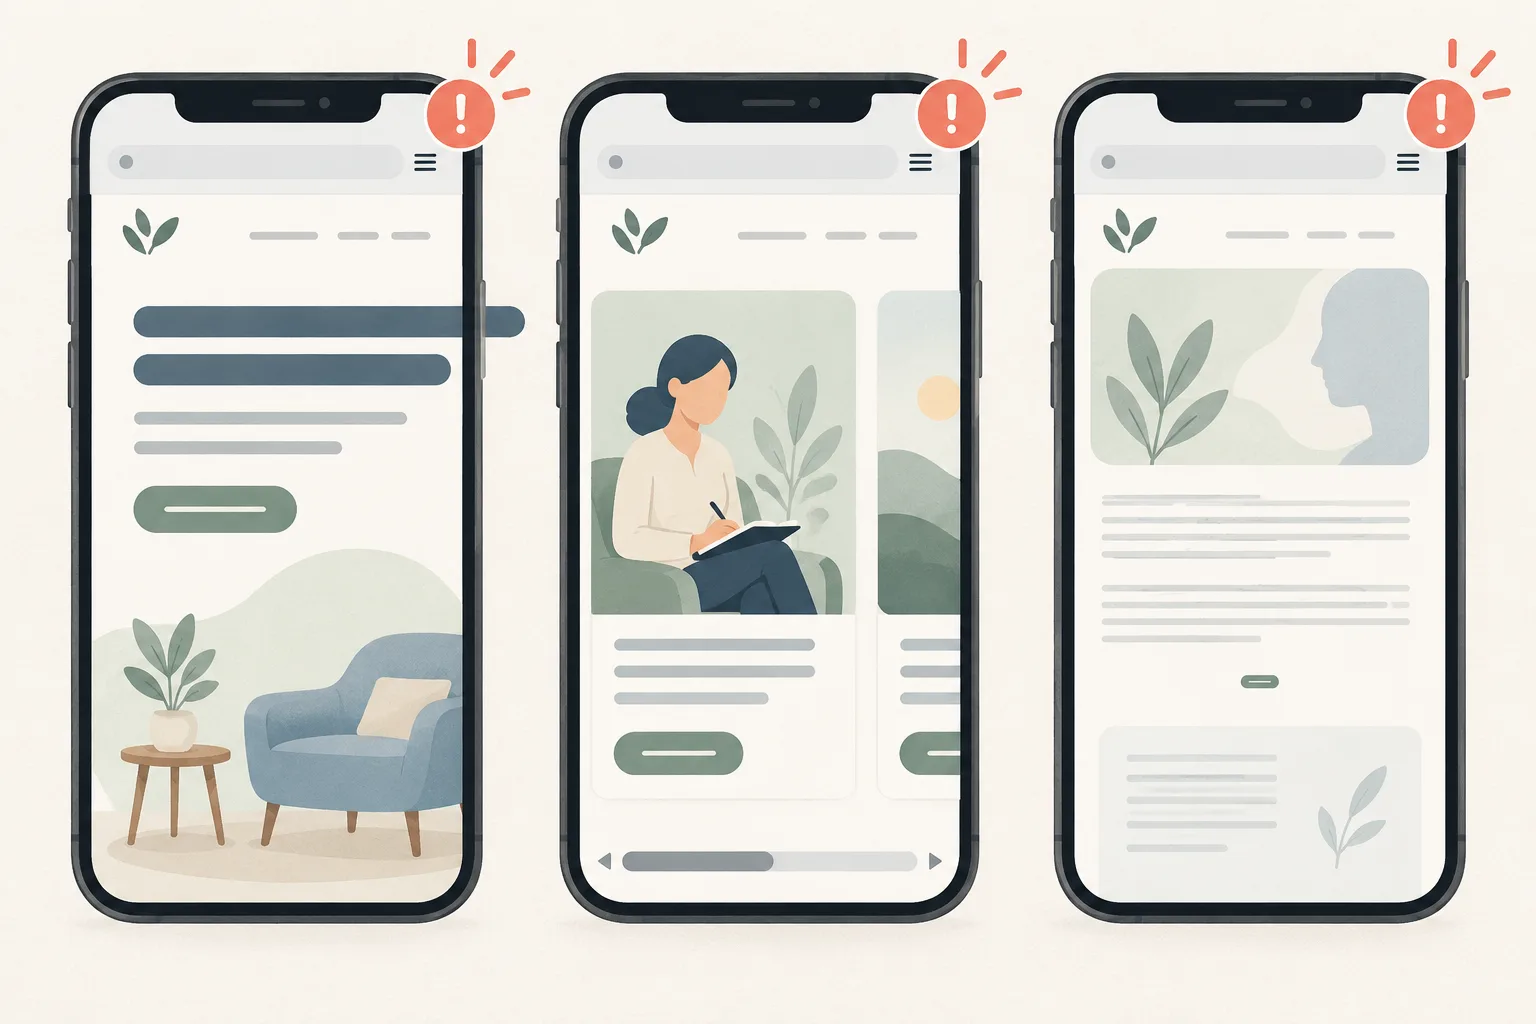
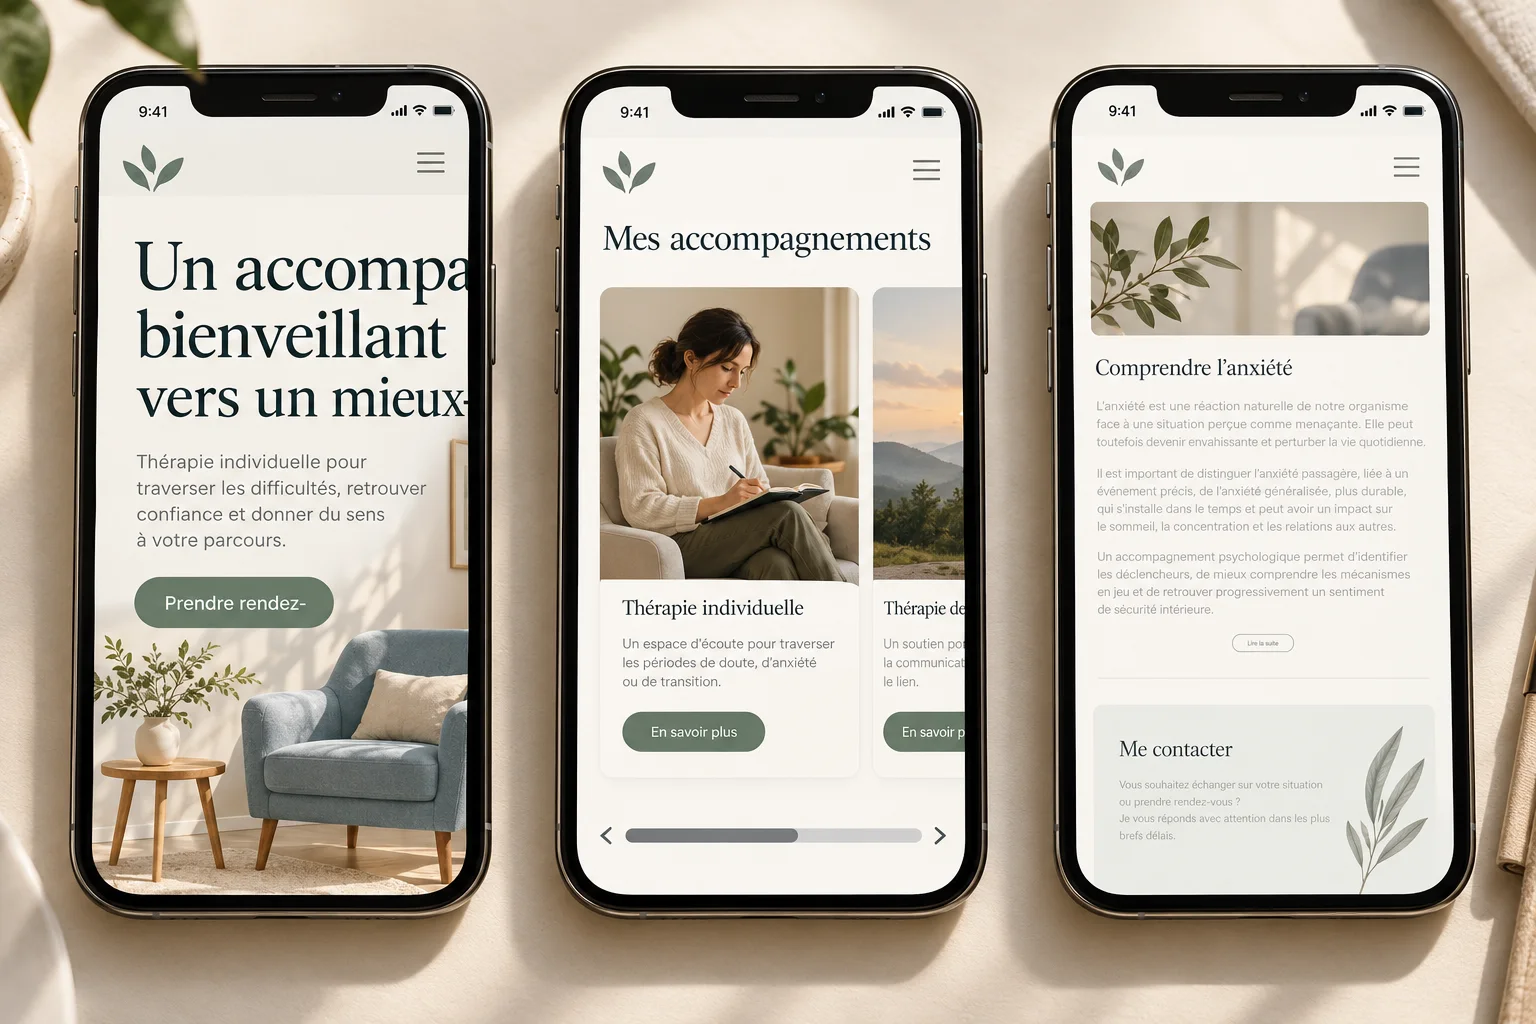
Replace mobile UX diagram with realistic phone examples

diff --git a/src/content/blog/design-ux-site-psychologue.md b/src/content/blog/design-ux-site-psychologue.md
@@ -81,7 +81,7 @@ Une grande partie des visiteurs découvrira le site sur son téléphone. Il ne s
 
 Les problèmes fréquents sont concrets : texte minuscule, lignes trop longues, colonnes comprimées, titres coupés, images qui prennent tout l’écran, bouton de contact caché ou fenêtre qui recouvre le contenu. Avec un site builder, le rendu ordinateur peut être très différent du rendu mobile ; chaque page doit être inspectée dans les deux formats.
 
-![Trois exemples de problèmes sur téléphone : un titre coupé par le bord de l’écran, une page trop large qui impose un défilement horizontal, puis un texte trop petit et trop pâle.](../../assets/images/blog/erreurs-ux-mobile-psychologue.webp)
+![Photographie de trois vrais smartphones affichant des sites fictifs de psychologue : un titre coupé, une page trop large avec défilement horizontal et un texte minuscule et pâle.](../../assets/images/blog/erreurs-ux-mobile-psychologue.webp)
 
 *De gauche à droite : un titre qui dépasse, une page qui oblige à faire défiler l’écran sur le côté, et un texte trop petit et peu contrasté.*
 
